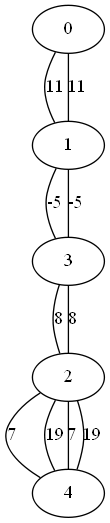
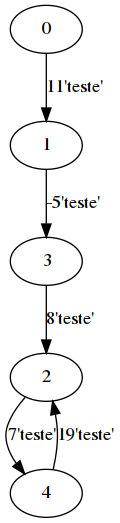
bug do nao orientado 'arrumado'. tentar botar o label + peso no png

diff --git a/Principal.java b/Principal.java
@@ -145,7 +145,7 @@ public class Principal{
                         
                     // so pra n ter q escrever o nome toda hr                
                     if(arq.isEmpty()){
-                        arq = "grafo3.txt";//entrar com o teste
+                        arq = "grafo1.txt";//entrar com o teste
                     }
 
                     grafo = new Grafo();
@@ -158,6 +158,9 @@ public class Principal{
 
                 case "2":
                     grafo.geraDot();
+
+                    System.out.println("\nGrafo gerado!");
+                    reader.readLine();
                     // https://www.youtube.com/watch?v=Ti2Br2Pq_A4
                     // https://github.com/nidi3/graphviz-java
                     break;

diff --git a/Grafo.java b/Grafo.java
@@ -149,11 +149,12 @@ public class Grafo{
 	public void geraDot() throws Exception{
 		StringBuffer dot;
 		String seta;
+
 		if(orientado){
 			dot  = new StringBuffer("digraph G {\n");
 			seta = new String(" -> ");
 		}else{
-			dot  = new StringBuffer("graph G {\n");
+			dot  = new StringBuffer("strict graph G {\n");
 			seta = new String(" -- ");
 		}
 
@@ -165,7 +166,7 @@ public class Grafo{
 				dot.append(incidencia.no.nome.replaceAll("\\s",""));
 				dot.append(" [label=\"");
 				dot.append(incidencia.peso);
-				dot.append("\"];\n");
+				dot.append("'teste'\"];\n");
 			}
 		}
 		dot.append("}\n");
